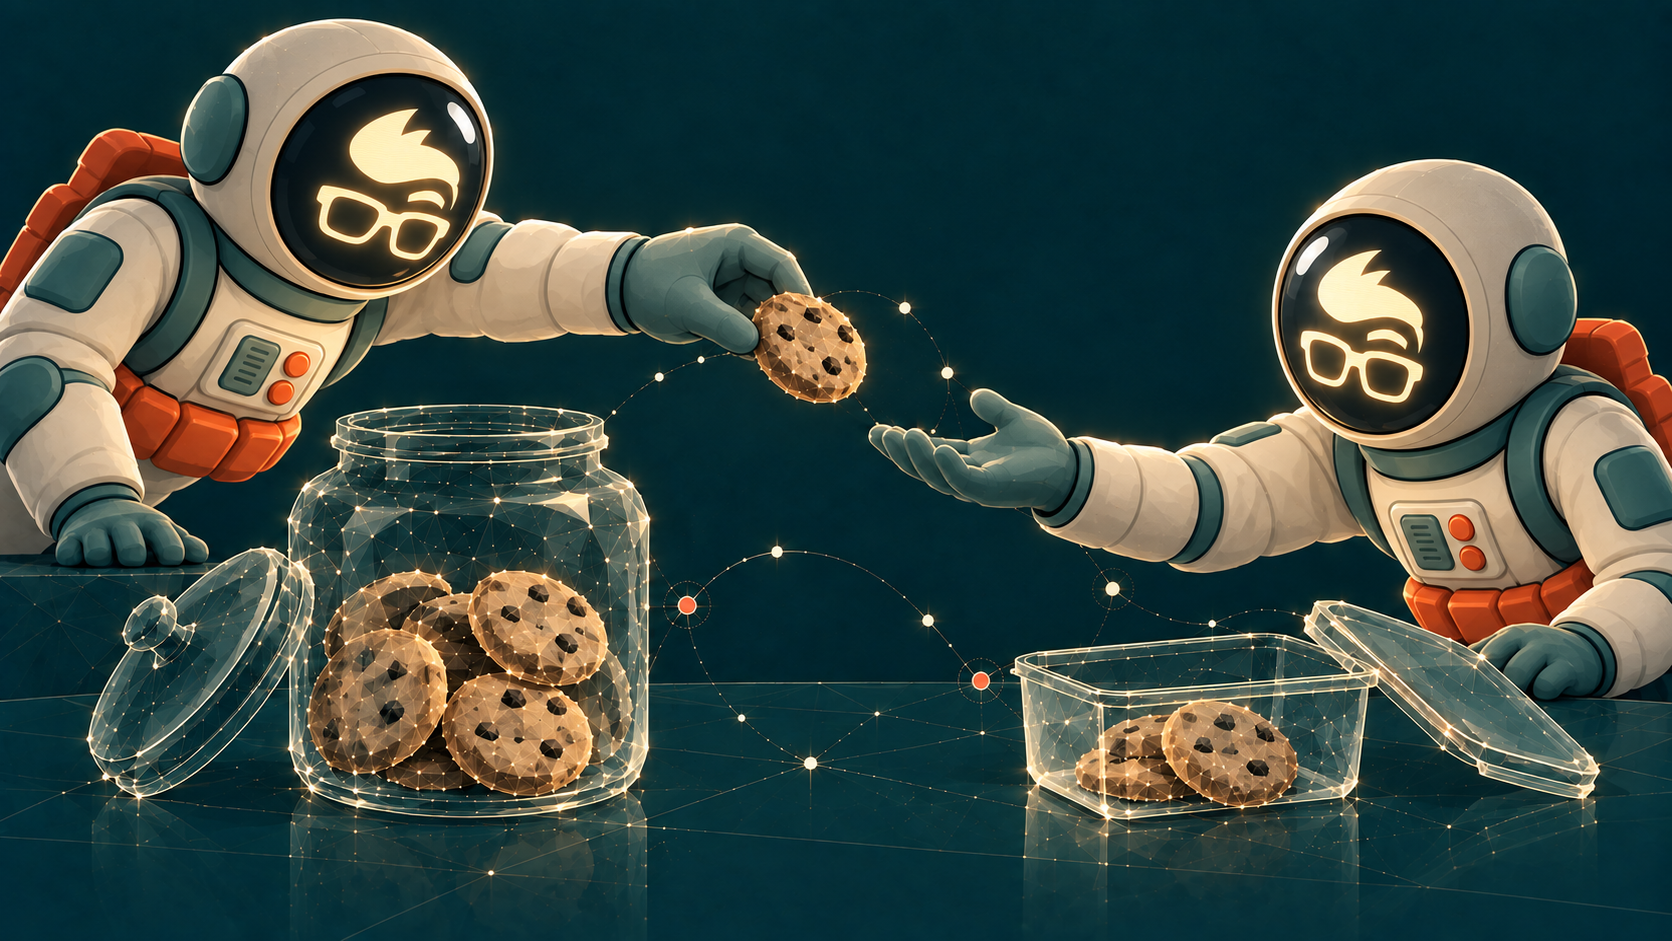
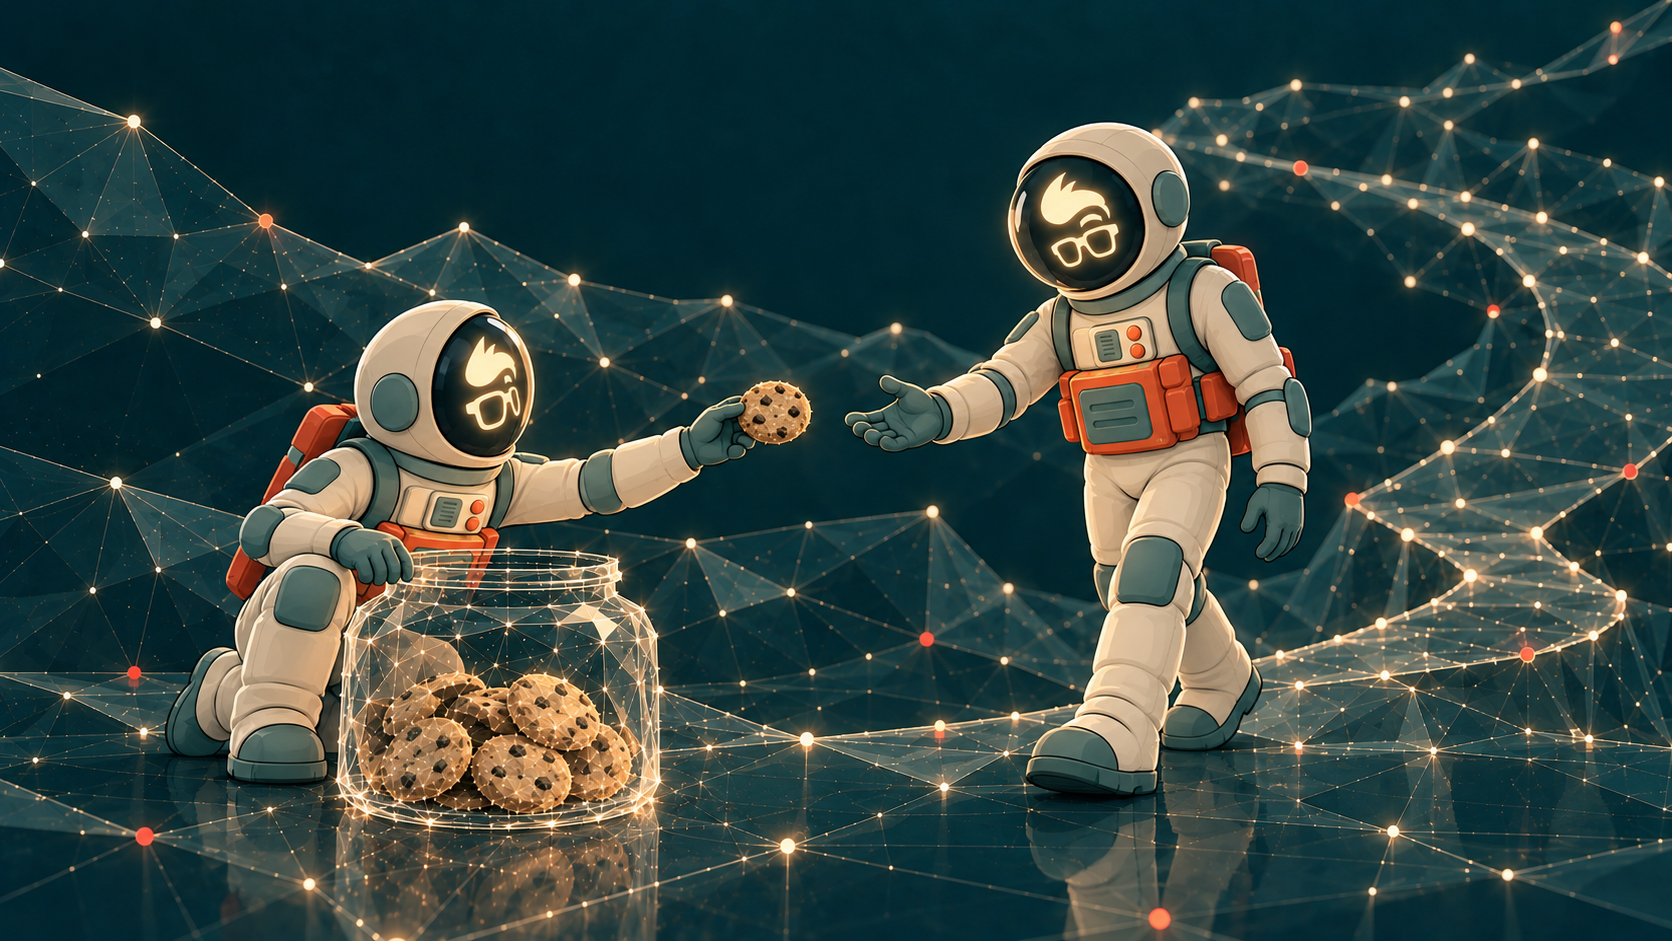
Revise cookie sharing study around one shared jar

diff --git a/design/article-astronaut-inspection/README.md b/design/article-astronaut-inspection/README.md
@@ -7,7 +7,7 @@ All four were made with the built-in image generation tool. Each prompt used its
 | Study | Article | Original image | Preserved story |
 | --- | --- | --- | --- |
 | `01-platform-ecosystem.png` | What should your community platform help people do? | `src/assets/images/public-thinking/community-container-ecosystem.png` | Open discussion circle, working group, document flow, transparent owned room, distant handoff; the network connects all of them. |
-| `02-cookie-sharing.png` | Same article | `src/assets/images/public-thinking/community-container-cookie-sharing.png` | The jar stores cookies; the act of sharing moves one cookie toward a person and a second container. |
+| `02-cookie-sharing.png` | Same article | `src/assets/images/public-thinking/community-container-cookie-sharing.png` | One shared jar stores the cookies; a kneeling astronaut passes one to another arriving from the wider field. |
 | `03-human-judgment-observatory.png` | What remains human when AI takes over? | `src/assets/images/public-thinking/human-judgment-observatory.png` | The operator chooses a coral point and holds a lever while the plotted route leads toward a fixed star. |
 | `04-independent-verification-telescope.png` | Same article | `src/assets/images/public-thinking/human-telescope-constellation.png` | The observer uses a separate telescope to check an external reference point. |
 
@@ -16,6 +16,6 @@ All four were made with the built-in image generation tool. Each prompt used its
 Shared instruction: preserve the original scene's composition, perspective, objects, meaning, deep petrol palette, translucent faceted constellation structures, fine ivory/teal lines and restrained coral nodes. Replace only constellation human figures or arms with anatomically coherent solid cream/teal Communitygeeks astronauts; preserve the dark glossy visors with the approved warm ivory hair, brow and glasses projected inside. Match the approved train study's relationship of solid character to constellation world. No text, logos, generic eyeglasses, extra limbs, flat diagrams or giant mascots.
 
 1. **Platform ecosystem:** Keep the left discussion circle, lower-left working table, rising documents, network arcs, lower-right transparent room and elevated far-right handoff. Put small astronauts in the human roles in each location. Preserve the open-versus-owned-space distinction.
-2. **Cookie sharing:** Keep the open constellation jar, lids, cookies, smaller food box and one cookie in transit. Replace the two constellation arms with two astronauts who offer and receive that cookie; keep the handoff central and visible.
+2. **Cookie sharing, revised after inspection:** One open constellation jar, no second receptacle. The astronaut beside it kneels and offers a cookie. A different astronaut arrives along the constellation path, standing with one foot forward and a hand extended to receive it. Keep the cookie clearly visible between their gloves; make their poses and roles distinct.
 3. **Observatory:** Keep the angled control desk, coral decision point, coral lever, plotted route, orbital arcs and target star. Replace the constellation operator with one astronaut who touches the point and holds the lever.
 4. **Telescope:** Keep the distinct constellation telescope and tripod, red adjustment knob, distant coral star and wide negative space. Replace the constellation observer with one astronaut looking through the eyepiece and adjusting the knob.
